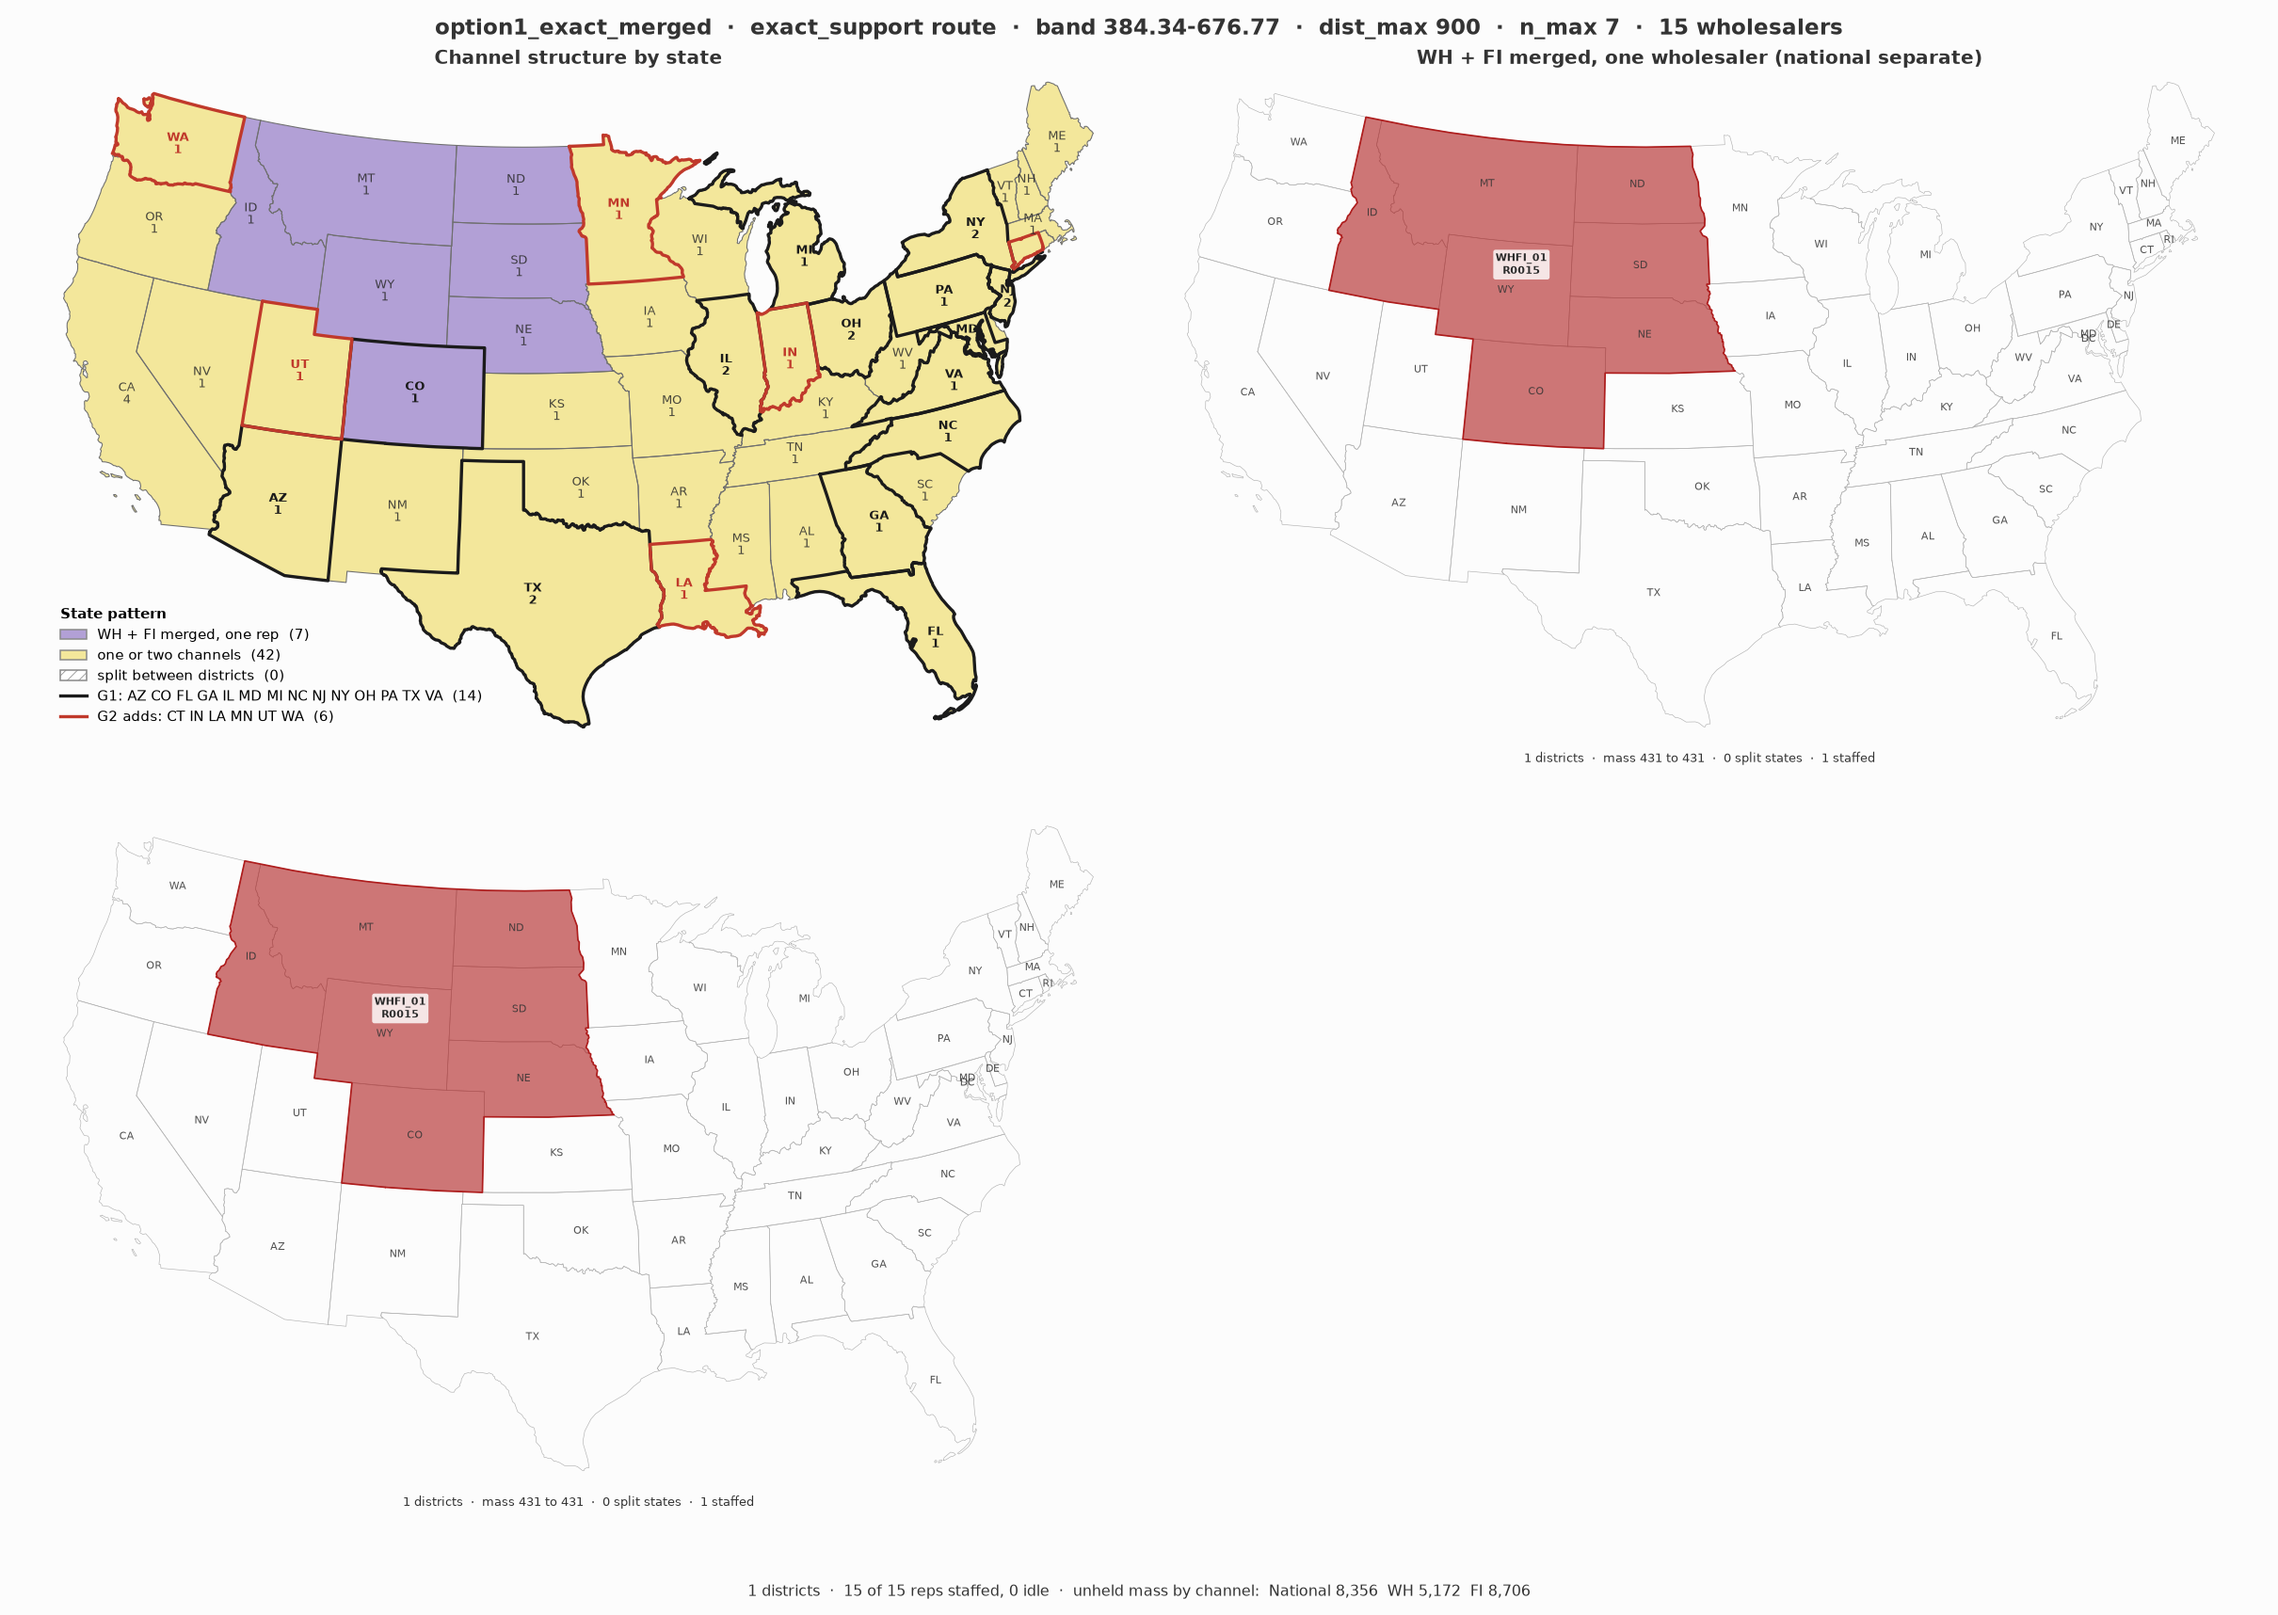
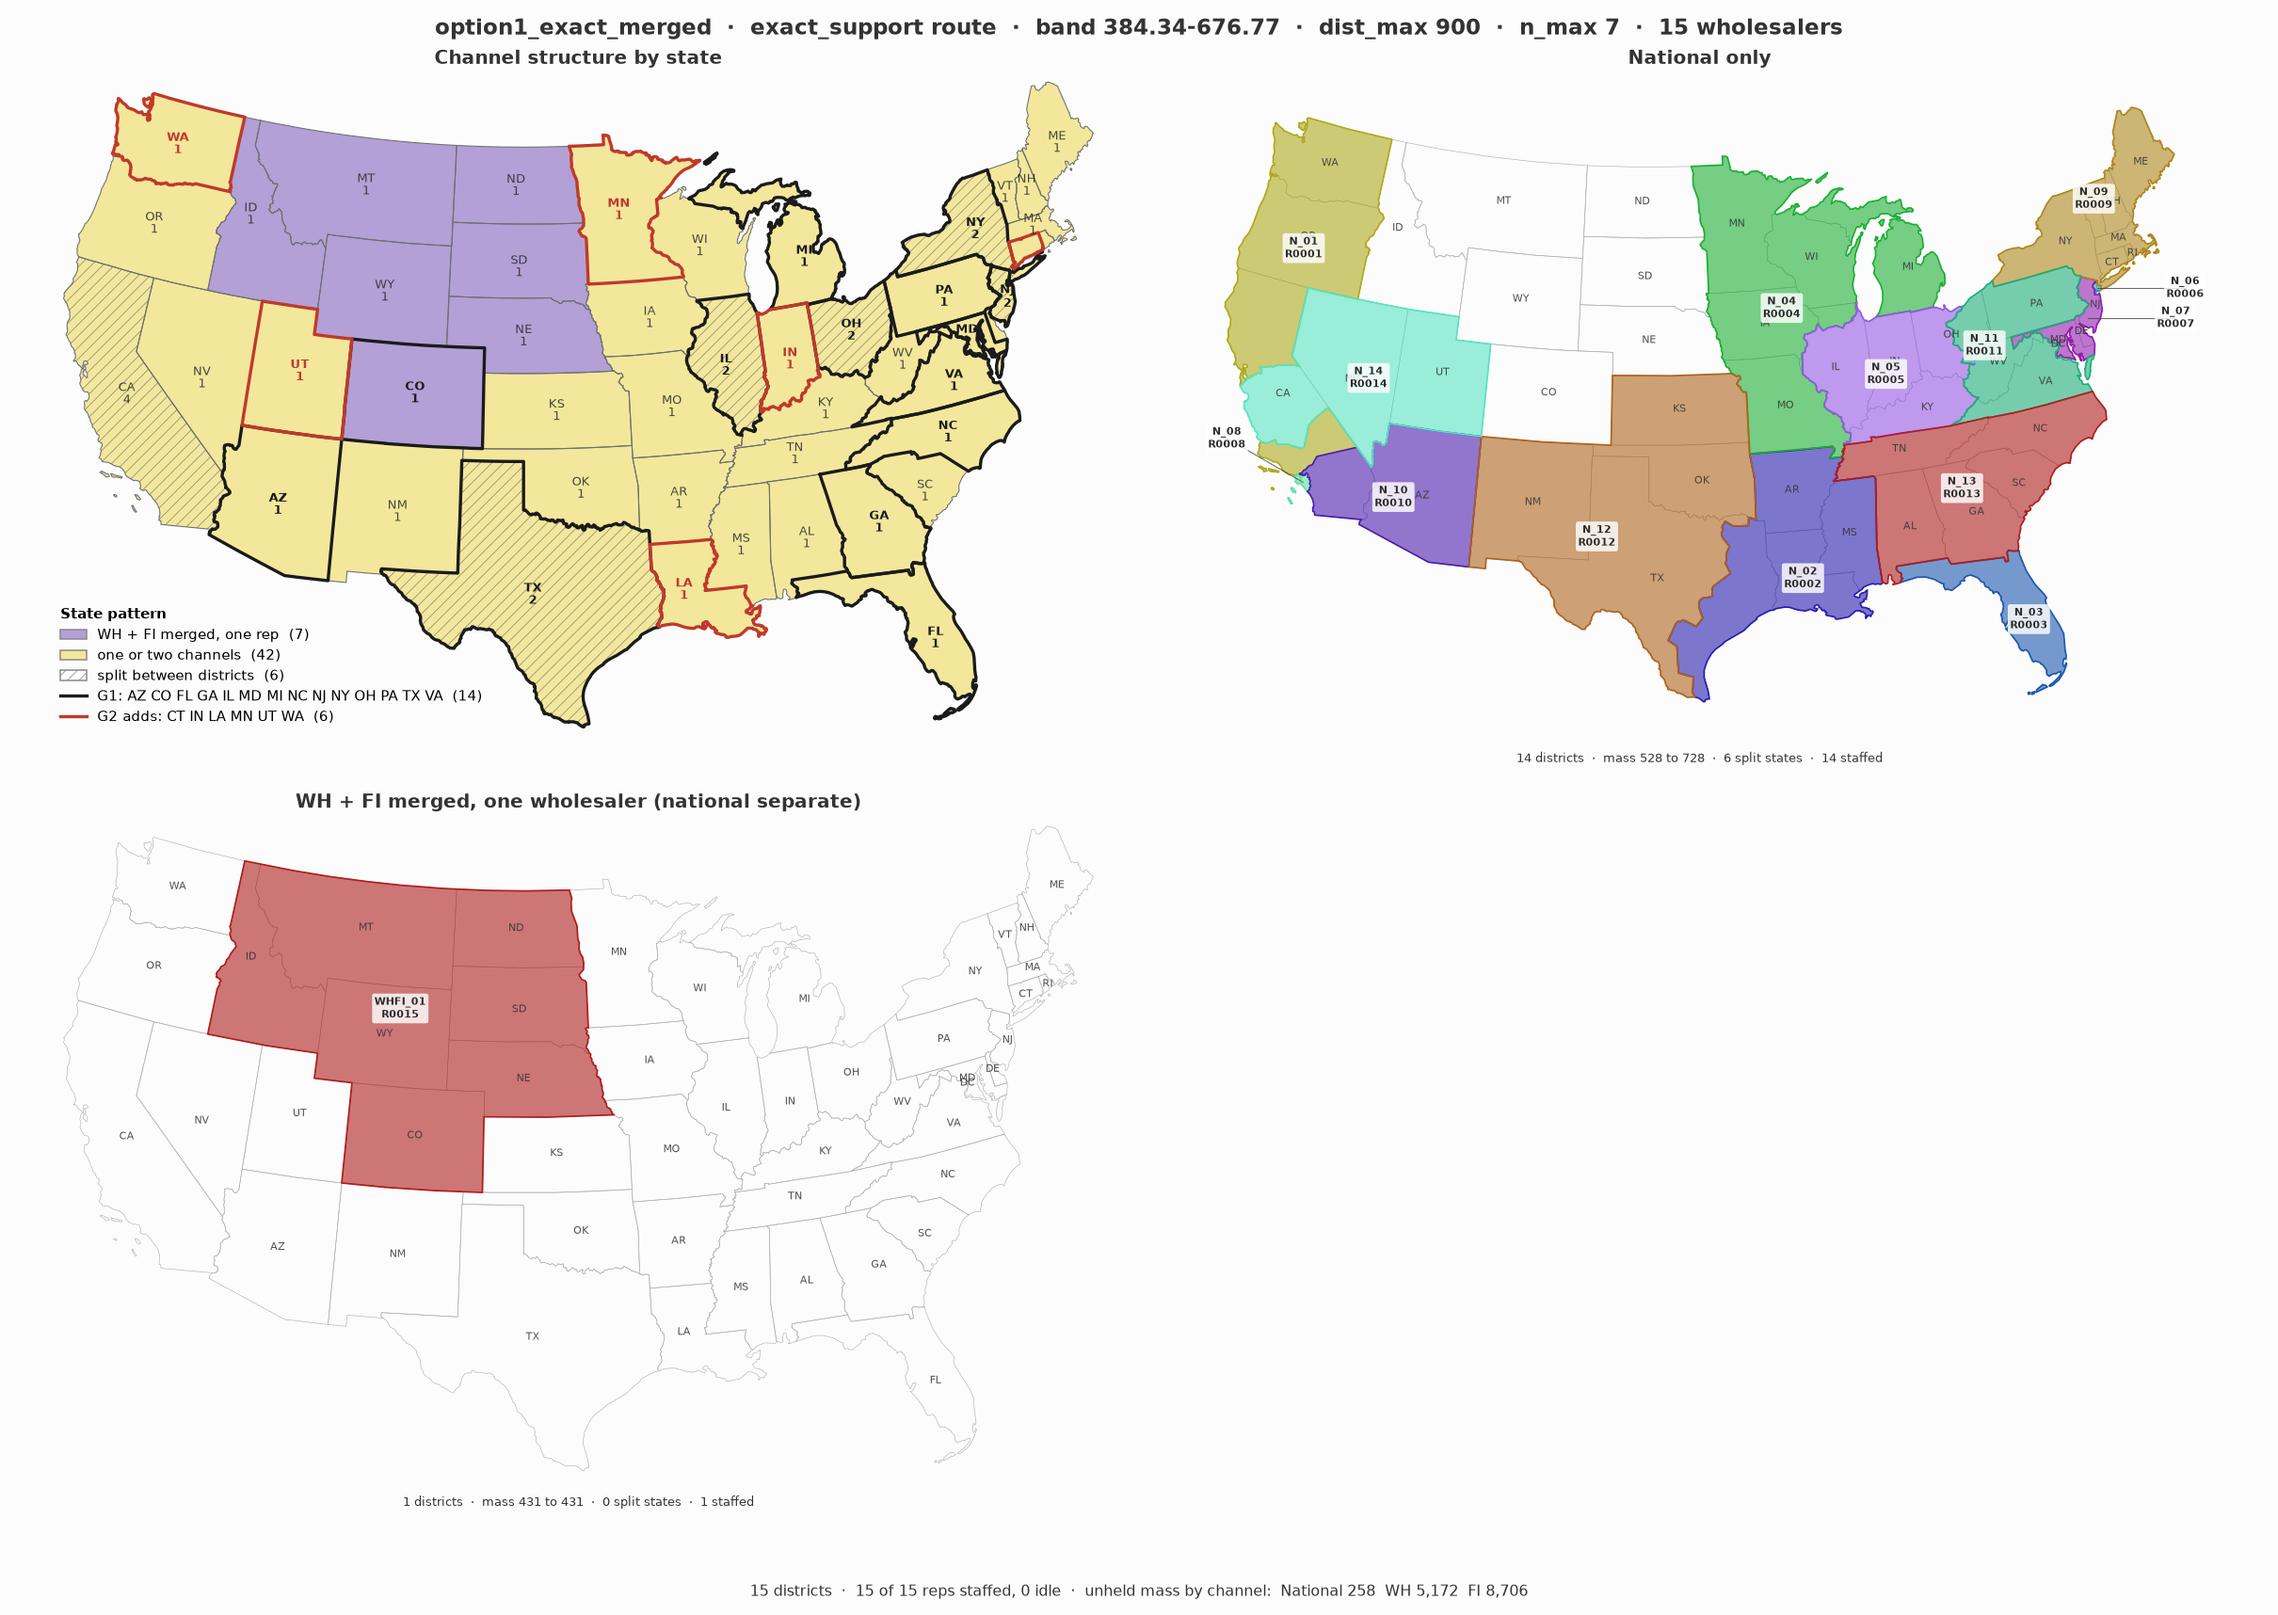
fix(figures): correct bundle scoping in assignment contiguity repair
- WH only panel now accurately renders 11 Wealth districts (was previously overwritten by FI)
- Option 1 now correctly renders N (14) + WHFI (1)
- Option 2 now correctly renders N (14) + WH (11) + FI (21)

diff --git a/tools/render_multichannel_options.py b/tools/render_multichannel_options.py
@@ -404,6 +404,11 @@ def render_option2():
 
 def heal_assignment_contiguity(run_dir: Path, bundle_list: list[str]):
     """Ensure all realized districts on assignment.csv are 100% rook contiguous on graph G."""
+    with open(run_dir / "assignment.csv") as f:
+        reader = csv.DictReader(f)
+        fieldnames = reader.fieldnames
+        all_rows = list(reader)
+
     for b in bundle_list:
         cg_path = run_dir / f"projections/{b}/cell_graph.json"
         if not cg_path.exists():
@@ -414,20 +419,13 @@ def heal_assignment_contiguity(run_dir: Path, bundle_list: list[str]):
         G.add_nodes_from(cg["zips"])
         G.add_edges_from(cg["edges"])
         
-        # Read assignment
-        rows = []
+        # Read labels ONLY for rows belonging to bundle b
         labels = {}
-        states = {}
         masses = {}
-        with open(run_dir / "assignment.csv") as f:
-            reader = csv.DictReader(f)
-            fieldnames = reader.fieldnames
-            col = f"district_{b}" if f"district_{b}" in fieldnames else "district"
-            for r in reader:
-                rows.append(r)
+        for r in all_rows:
+            if r.get("bundle") == b:
                 z = r["zip"]
-                labels[z] = r.get(col, "other")
-                states[z] = r.get("state", "")
+                labels[z] = r.get("district", "other")
                 masses[z] = masses.get(z, 0.0) + float(r.get("M_cell", 0.0))
                 
         # Run absorption
@@ -452,16 +450,18 @@ def heal_assignment_contiguity(run_dir: Path, bundle_list: list[str]):
             if moved == 0:
                 break
                 
-        # Write back
-        with open(run_dir / "assignment.csv", "w", newline="") as f:
-            writer = csv.DictWriter(f, fieldnames=fieldnames)
-            writer.writeheader()
-            for r in rows:
+        # Update ONLY rows belonging to bundle b
+        for r in all_rows:
+            if r.get("bundle") == b:
                 z = r["zip"]
-                col = f"district_{b}" if f"district_{b}" in fieldnames else "district"
-                if col in r:
-                    r[col] = labels.get(z, r[col])
-                writer.writerow(r)
+                if z in labels:
+                    r["district"] = labels[z]
+
+    with open(run_dir / "assignment.csv", "w", newline="") as f:
+        writer = csv.DictWriter(f, fieldnames=fieldnames)
+        writer.writeheader()
+        for r in all_rows:
+            writer.writerow(r)
 
 
 if __name__ == "__main__":
